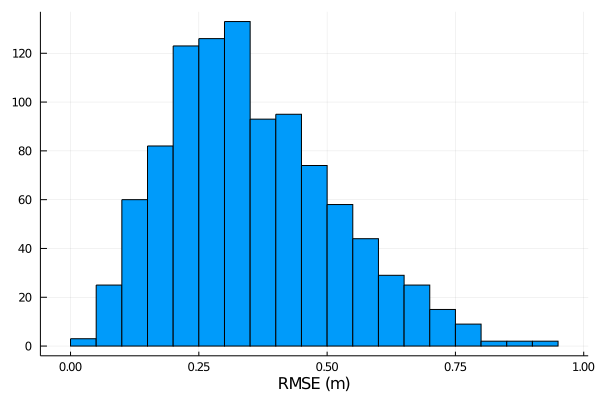
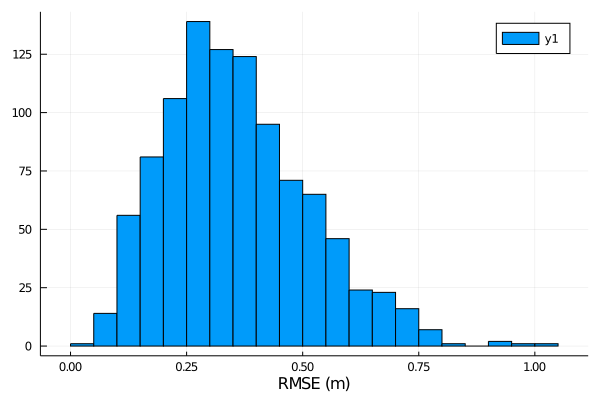
fix(*): different orientation

diff --git a/README.md b/README.md
@@ -7,16 +7,17 @@ This package implements methods and simulations for practical source localizatio
 using Plots, MultiarraySourceLocalization
 
 txpos = [100, -100, 5]
-rotateangles = [5, -10, -3]
+rx1angles = [5, -10, -3]
+rx2angles = [8, 6, 0.2]
 σ = 0.1
-esttxpos = simulate(txpos=txpos, rotateangles=rotateangles, σ=σ)
+esttxpos = simulate(txpos=txpos, rx1angles=rx1angles, rx2angles=rx2angles, σ=σ)
 plotconfig(rx1pos, rx2pos, txpos, esttxpos)
 ```
 ![window](images/config.png)
 ```julia
 nrealizations = 1000
-esttxposs = hcat([esttxpostmp = simulate(txpos=txpos, rotateangles=rotateangles, σ=σ) 
-                  for i in 1:nrealizations]...)
+esttxposs = hcat([esttxpostmp = simulate(txpos=txpos, rx1angles=rx1angles, 
+                  rx2angles=rx2angles, σ=σ) for i in 1:nrealizations]...)
 rmses = rms(txpos .- esttxposs; dims=1)
 histogram(rmses; xlabel="RMSE (m)")
 ```
